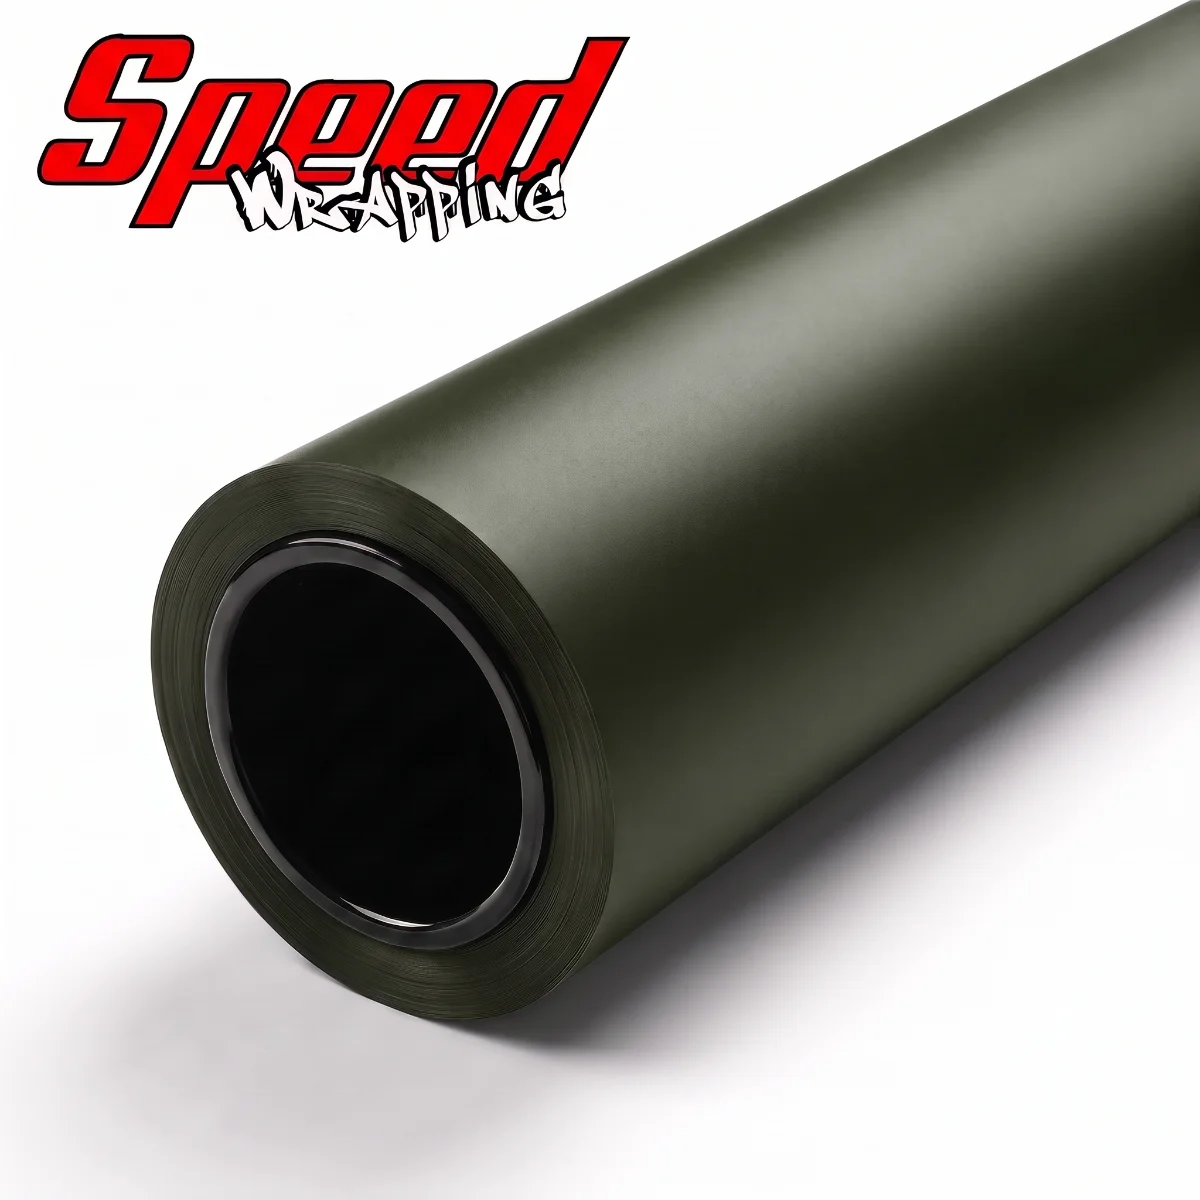
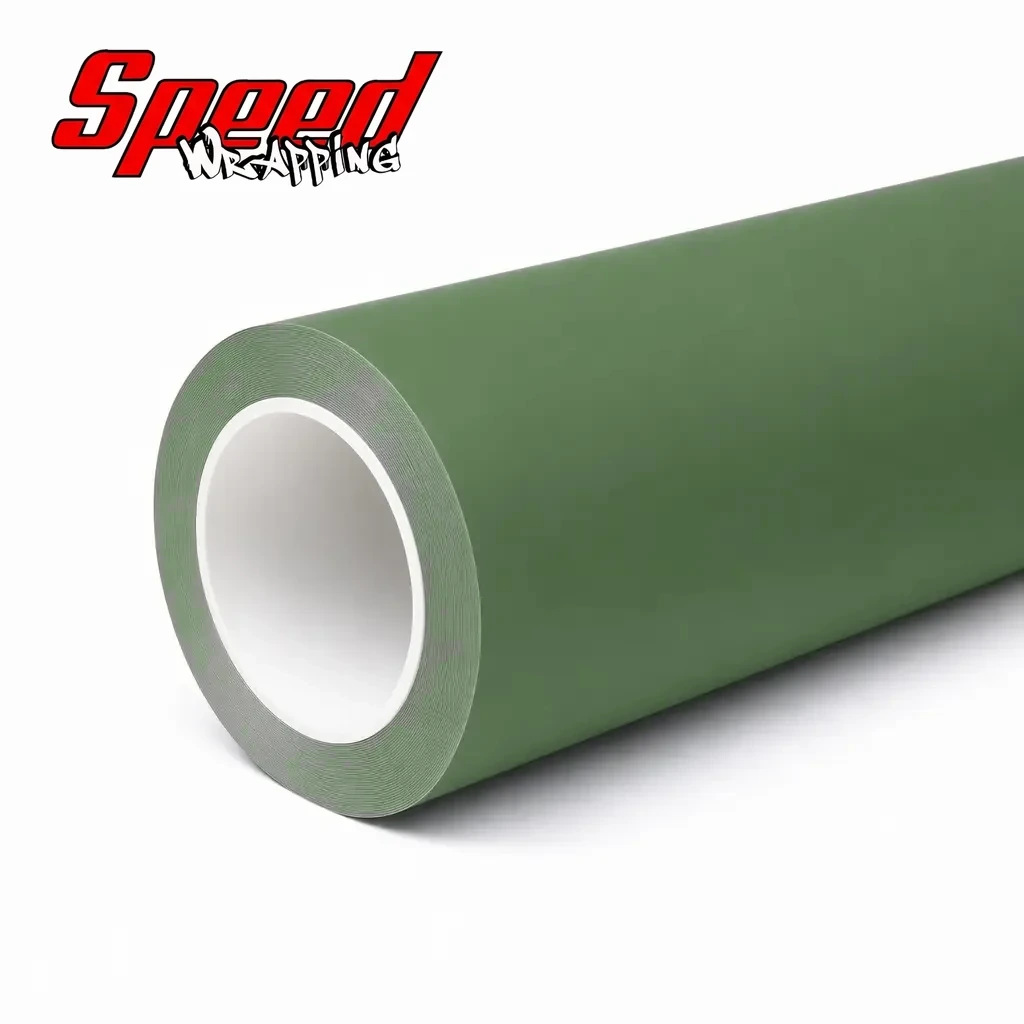
feat(ema-007): Mercedes-AMG G 63 + capa fosca com referencia ESG-034 (#5A7351) Matt Army Green

diff --git a/scripts/medir-cor.py b/scripts/medir-cor.py
@@ -82,6 +82,7 @@ FAIXAS = {
     'violeta': (225.0, 285.0),  # roxo-azulado EDG-027 (H 255); borda de roxo e de azul
     'orquidea': (305.0, 352.0),  # rosa-orquidea EMT-024 (H 323); fica fora do vermelho de lanterna/logo
     'musgo': (40.0, 130.0),  # verde-musgo EDG-026 (H ~89); geracao nasce em H 50-64
+    'militar': (65.0, 130.0),  # verde-militar fosco EMA-007 (H 105); fora do concreto amarelado e do cinza-azulado
 }
 
 

diff --git a/scripts/recolorir-capa.py b/scripts/recolorir-capa.py
@@ -89,6 +89,7 @@ FAIXAS = {
     'violeta': (225.0, 285.0),  # roxo-azulado EDG-027 (H 255); borda de roxo e de azul
     'orquidea': (305.0, 352.0),  # rosa-orquidea EMT-024 (H 323); fica fora do vermelho de lanterna/logo
     'musgo': (40.0, 130.0),  # verde-musgo EDG-026 (H ~89); geracao nasce em H 50-64
+    'militar': (65.0, 130.0),  # verde-militar fosco EMA-007 (H 105); fora do concreto amarelado e do cinza-azulado
 }
 
 
